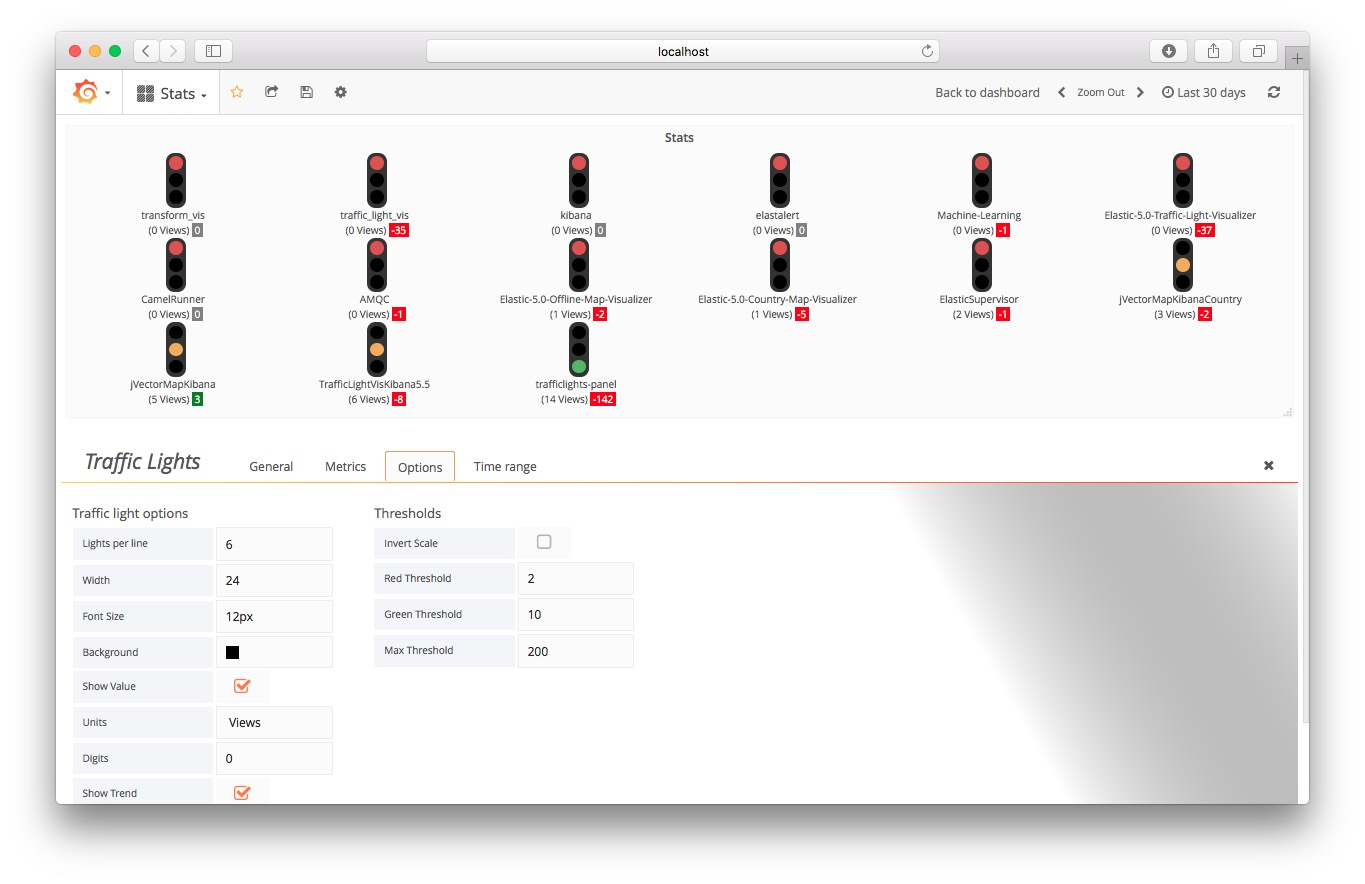
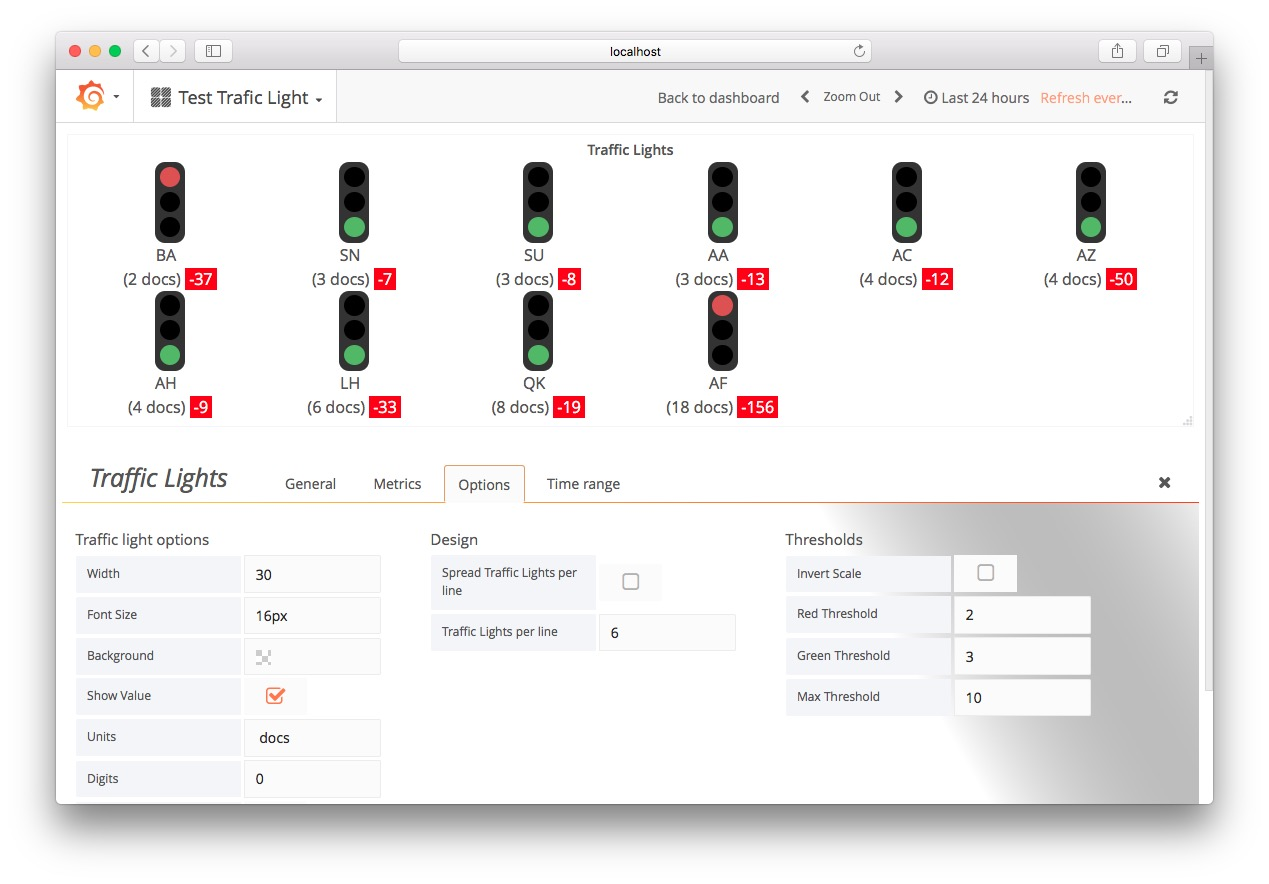
v1.3.0
- Threshold validations added
- Options number fields are now number fields. (Text in previous
versions)

diff --git a/dist/editor.html b/dist/editor.html
@@ -1,13 +1,11 @@
 <div class="editor-row">
+	<!-- OPTIONS -->
 	<div class="section gf-form-group">
 		<h5 class="section-heading">Traffic light options</h5>
-		<div class="gf-form">
-			<label class="gf-form-label width-12">Lights per line</label>
-			<input type="text" class="input-small gf-form-input max-width-10" ng-model="ctrl.panel.trafficLightSettings.lightsPerLine" ng-change="ctrl.render()" ng-model-onblur>
-		</div>
+		
 		<div class="gf-form">
 				<label class="gf-form-label width-12">Width</label>
-				<input type="text" class="input-small gf-form-input max-width-10" ng-model="ctrl.panel.trafficLightSettings.width" ng-change="ctrl.render()" ng-model-onblur>
+				<input type="number" class="input-small gf-form-input max-width-10" ng-model="ctrl.panel.trafficLightSettings.width" ng-change="ctrl.render()" ng-model-onblur>
 		</div>
 		<div class="gf-form">
 				<label class="gf-form-label width-12">Font Size</label>
@@ -26,25 +24,45 @@
 		</div>
 		<div class="gf-form" ng-show="ctrl.panel.trafficLightSettings.showValue">
 				<label class="gf-form-label width-12">Digits</label>
-				<input type="text" class="input-small gf-form-input max-width-10" ng-model="ctrl.panel.trafficLightSettings.digits" ng-change="ctrl.render()" ng-model-onblur>
+				<input type="number" class="input-small gf-form-input max-width-10" ng-model="ctrl.panel.trafficLightSettings.digits" ng-change="ctrl.render()" ng-model-onblur>
 		</div>
 		<gf-form-switch class="gf-form" label="Show Trend" label-class="width-12" checked="ctrl.panel.trafficLightSettings.showTrend" on-change="ctrl.render()"></gf-form-switch>
 	</div>
+	<!-- OPTIONS -->
+	<div class="section gf-form-group">
+		<h5 class="section-heading">Design</h5>
+		<gf-form-switch class="gf-form" label="Spread Traffic Lights per line" label-class="width-12" checked="ctrl.panel.trafficLightSettings.spreadControls" on-change="ctrl.render()"></gf-form-switch>
+		<div class="gf-form" ng-show="!ctrl.panel.trafficLightSettings.spreadControls">
+			<label class="gf-form-label width-12">Traffic Lights per line</label>
+			<input type="number" class="input-small gf-form-input max-width-10" ng-model="ctrl.panel.trafficLightSettings.lightsPerLine" ng-change="ctrl.render()" ng-model-onblur>
+		</div>
+		
+	</div>
 
+	<!-- Threshold -->
 	<div class="section gf-form-group" >
 		<h5 class="section-heading">Thresholds</h5>
 		<gf-form-switch class="gf-form" label="Invert Scale" label-class="width-12" checked="ctrl.panel.trafficLightSettings.invertScale" on-change="ctrl.render()"></gf-form-switch>
 		<div class="gf-form">
 			<label class="gf-form-label width-12">Red Threshold</label>
-			<input type="text" class="input-small gf-form-input max-width-10" ng-model="ctrl.panel.trafficLightSettings.redThreshold" ng-change="ctrl.render()" ng-model-onblur>
+			<input type="number" class="input-small gf-form-input max-width-10" ng-model="ctrl.panel.trafficLightSettings.redThreshold" ng-change="ctrl.render()" ng-model-onblur>
 		</div>
 		<div class="gf-form">
 			<label class="gf-form-label width-12">Green Threshold</label>
-			<input type="text" class="input-small gf-form-input max-width-10" ng-model="ctrl.panel.trafficLightSettings.greenThreshold" ng-change="ctrl.render()" ng-model-onblur>
+			<input type="number" class="input-small gf-form-input max-width-10" ng-model="ctrl.panel.trafficLightSettings.greenThreshold" ng-change="ctrl.render()" ng-model-onblur>
 		</div>
-		<div class="gf-form">
+		<div class="gf-form" ng-show="!ctrl.panel.trafficLightSettings.invertScale">
 				<label class="gf-form-label width-12">Max Threshold</label>
-				<input type="text" class="input-small gf-form-input max-width-10" ng-model="ctrl.panel.trafficLightSettings.max" ng-change="ctrl.render()" ng-model-onblur>
+				<input type="number" class="input-small gf-form-input max-width-10" ng-model="ctrl.panel.trafficLightSettings.max" ng-change="ctrl.render()" ng-model-onblur>				
+		</div>
+		<div class="gf-form" ng-show="ctrl.panel.trafficLightSettings.invertScale && (ctrl.panel.trafficLightSettings.greenThreshold>ctrl.panel.trafficLightSettings.redThreshold)">			
+			<label class="errorlabel">Red threshold Must be greater than green threshold.</label>
+		</div>
+		<div class="gf-form" ng-show="!ctrl.panel.trafficLightSettings.invertScale && (ctrl.panel.trafficLightSettings.redThreshold>ctrl.panel.trafficLightSettings.greenThreshold)">			
+			<label class="errorlabel">Red threshold Must be lower than red threshold.</label>
+		</div>
+		<div class="gf-form" ng-show="!ctrl.panel.trafficLightSettings.invertScale && (ctrl.panel.trafficLightSettings.greenThreshold>ctrl.panel.trafficLightSettings.max)">			
+			<label class="errorlabel">Max threshold Must be greater than green threshold.</label>
 		</div>
 	</div>
 

diff --git a/src/editor.html b/src/editor.html
@@ -1,13 +1,11 @@
 <div class="editor-row">
+	<!-- OPTIONS -->
 	<div class="section gf-form-group">
 		<h5 class="section-heading">Traffic light options</h5>
-		<div class="gf-form">
-			<label class="gf-form-label width-12">Lights per line</label>
-			<input type="text" class="input-small gf-form-input max-width-10" ng-model="ctrl.panel.trafficLightSettings.lightsPerLine" ng-change="ctrl.render()" ng-model-onblur>
-		</div>
+		
 		<div class="gf-form">
 				<label class="gf-form-label width-12">Width</label>
-				<input type="text" class="input-small gf-form-input max-width-10" ng-model="ctrl.panel.trafficLightSettings.width" ng-change="ctrl.render()" ng-model-onblur>
+				<input type="number" class="input-small gf-form-input max-width-10" ng-model="ctrl.panel.trafficLightSettings.width" ng-change="ctrl.render()" ng-model-onblur>
 		</div>
 		<div class="gf-form">
 				<label class="gf-form-label width-12">Font Size</label>
@@ -26,25 +24,45 @@
 		</div>
 		<div class="gf-form" ng-show="ctrl.panel.trafficLightSettings.showValue">
 				<label class="gf-form-label width-12">Digits</label>
-				<input type="text" class="input-small gf-form-input max-width-10" ng-model="ctrl.panel.trafficLightSettings.digits" ng-change="ctrl.render()" ng-model-onblur>
+				<input type="number" class="input-small gf-form-input max-width-10" ng-model="ctrl.panel.trafficLightSettings.digits" ng-change="ctrl.render()" ng-model-onblur>
 		</div>
 		<gf-form-switch class="gf-form" label="Show Trend" label-class="width-12" checked="ctrl.panel.trafficLightSettings.showTrend" on-change="ctrl.render()"></gf-form-switch>
 	</div>
+	<!-- OPTIONS -->
+	<div class="section gf-form-group">
+		<h5 class="section-heading">Design</h5>
+		<gf-form-switch class="gf-form" label="Spread Traffic Lights per line" label-class="width-12" checked="ctrl.panel.trafficLightSettings.spreadControls" on-change="ctrl.render()"></gf-form-switch>
+		<div class="gf-form" ng-show="!ctrl.panel.trafficLightSettings.spreadControls">
+			<label class="gf-form-label width-12">Traffic Lights per line</label>
+			<input type="number" class="input-small gf-form-input max-width-10" ng-model="ctrl.panel.trafficLightSettings.lightsPerLine" ng-change="ctrl.render()" ng-model-onblur>
+		</div>
+		
+	</div>
 
+	<!-- Threshold -->
 	<div class="section gf-form-group" >
 		<h5 class="section-heading">Thresholds</h5>
 		<gf-form-switch class="gf-form" label="Invert Scale" label-class="width-12" checked="ctrl.panel.trafficLightSettings.invertScale" on-change="ctrl.render()"></gf-form-switch>
 		<div class="gf-form">
 			<label class="gf-form-label width-12">Red Threshold</label>
-			<input type="text" class="input-small gf-form-input max-width-10" ng-model="ctrl.panel.trafficLightSettings.redThreshold" ng-change="ctrl.render()" ng-model-onblur>
+			<input type="number" class="input-small gf-form-input max-width-10" ng-model="ctrl.panel.trafficLightSettings.redThreshold" ng-change="ctrl.render()" ng-model-onblur>
 		</div>
 		<div class="gf-form">
 			<label class="gf-form-label width-12">Green Threshold</label>
-			<input type="text" class="input-small gf-form-input max-width-10" ng-model="ctrl.panel.trafficLightSettings.greenThreshold" ng-change="ctrl.render()" ng-model-onblur>
+			<input type="number" class="input-small gf-form-input max-width-10" ng-model="ctrl.panel.trafficLightSettings.greenThreshold" ng-change="ctrl.render()" ng-model-onblur>
 		</div>
-		<div class="gf-form">
+		<div class="gf-form" ng-show="!ctrl.panel.trafficLightSettings.invertScale">
 				<label class="gf-form-label width-12">Max Threshold</label>
-				<input type="text" class="input-small gf-form-input max-width-10" ng-model="ctrl.panel.trafficLightSettings.max" ng-change="ctrl.render()" ng-model-onblur>
+				<input type="number" class="input-small gf-form-input max-width-10" ng-model="ctrl.panel.trafficLightSettings.max" ng-change="ctrl.render()" ng-model-onblur>				
+		</div>
+		<div class="gf-form" ng-show="ctrl.panel.trafficLightSettings.invertScale && (ctrl.panel.trafficLightSettings.greenThreshold>ctrl.panel.trafficLightSettings.redThreshold)">			
+			<label class="errorlabel">Red threshold Must be greater than green threshold.</label>
+		</div>
+		<div class="gf-form" ng-show="!ctrl.panel.trafficLightSettings.invertScale && (ctrl.panel.trafficLightSettings.redThreshold>ctrl.panel.trafficLightSettings.greenThreshold)">			
+			<label class="errorlabel">Red threshold Must be lower than red threshold.</label>
+		</div>
+		<div class="gf-form" ng-show="!ctrl.panel.trafficLightSettings.invertScale && (ctrl.panel.trafficLightSettings.greenThreshold>ctrl.panel.trafficLightSettings.max)">			
+			<label class="errorlabel">Max threshold Must be greater than green threshold.</label>
 		</div>
 	</div>
 

diff --git a/dist/trafficlight_ctrl.js b/dist/trafficlight_ctrl.js
@@ -77,7 +77,8 @@ System.register(['app/plugins/sdk', 'moment', 'lodash', 'app/core/time_series', 
           max: 100,
           fontSize: '12px',
           units: '',
-          digits: 1
+          digits: 1,
+          spreadControls: false
         }
       };
 
@@ -184,12 +185,19 @@ System.register(['app/plugins/sdk', 'moment', 'lodash', 'app/core/time_series', 
         }, {
           key: 'updateTraffics',
           value: function updateTraffics() {
-            this.percentPerLight = 100 / this.panel.trafficLightSettings.lightsPerLine;
+
+            var trafficsperline = this.panel.trafficLightSettings.lightsPerLine;
+
+            if (this.panel.trafficLightSettings.spreadControls) {
+              trafficsperline = this.data.length;
+              if (this.data.length == 0) trafficsperline = 1;
+              this.percentPerLight = 100 / trafficsperline;
+            } else this.percentPerLight = 100 / trafficsperline;
 
             this.lines = [];
             var metrics = [];
             for (var i = 0; i < this.data.length; i++) {
-              if (i % this.panel.trafficLightSettings.lightsPerLine == 0) {
+              if (i % trafficsperline == 0) {
                 metrics = [];
                 this.lines.push(metrics);
               }

diff --git a/src/trafficlight_ctrl.js b/src/trafficlight_ctrl.js
@@ -19,9 +19,12 @@ const panelDefaults = {
     max:100,
     fontSize:'12px',
     units:'',
-    digits:1
+    digits:1,
+    spreadControls:false
   }
 };
+
+
 
 export class TrafficLightCtrl extends MetricsPanelCtrl {
   constructor($scope, $injector) {
@@ -133,13 +136,25 @@ export class TrafficLightCtrl extends MetricsPanelCtrl {
   }
 
   updateTraffics() {
-    this.percentPerLight=100/this.panel.trafficLightSettings.lightsPerLine;
+
+    var trafficsperline=this.panel.trafficLightSettings.lightsPerLine;
+
+    if(this.panel.trafficLightSettings.spreadControls)
+    {
+      trafficsperline=this.data.length;
+      if(this.data.length==0)
+        trafficsperline=1;
+      this.percentPerLight=100/trafficsperline;
+      
+    }
+    else
+      this.percentPerLight=100/trafficsperline;
 
     this.lines=[];
     var metrics=[];
     for(var i=0;i<this.data.length;i++)
     {
-      if((i%this.panel.trafficLightSettings.lightsPerLine)==0)
+      if((i%trafficsperline)==0)
 			{
 				metrics=[];
 				this.lines.push(metrics);

diff --git a/dist/css/trafficlight-panel.css b/dist/css/trafficlight-panel.css
@@ -1,3 +1,9 @@
+.errorlabel
+{
+  background-color: red;
+  color:white;
+}
+
 .trafficlight-panel {
   display: flex;
   align-items: center;

diff --git a/src/css/trafficlight-panel.css b/src/css/trafficlight-panel.css
@@ -1,3 +1,9 @@
+.errorlabel
+{
+  background-color: red;
+  color:white;
+}
+
 .trafficlight-panel {
   display: flex;
   align-items: center;

diff --git a/dist/README.md b/dist/README.md
@@ -32,3 +32,11 @@ Copy the dist folder in your grafana plugin directory and rename it to trafficli
 
 ## v1.1.0 (19/Oct/2017)
 - Versions synchronized
+
+
+## v1.2.0 (27/Oct/2017)
+- Panel id renamed to snuids-traffic-lights (Edit your panels plugin id when upgrading from 1.1.0)
+
+## v1.3.0 (28/Oct/2017)
+- Threshold validations added
+- Options number fields are now number fields. (Text in previous versions)

diff --git a/README.md b/README.md
@@ -36,3 +36,7 @@ Copy the dist folder in your grafana plugin directory and rename it to trafficli
 
 ## v1.2.0 (27/Oct/2017)
 - Panel id renamed to snuids-traffic-lights (Edit your panels plugin id when upgrading from 1.1.0)
+
+## v1.3.0 (28/Oct/2017)
+- Threshold validations added
+- Options number fields are now number fields. (Text in previous versions)
